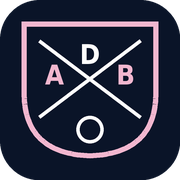
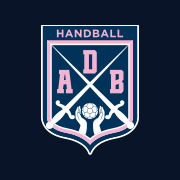
Usar el escudo oficial en SVG en todo el sitio
iconos/escudo.svg reemplaza el escudo dibujado a mano en la portada,
la barra de navegación y el marcador de web.html y la portada del
plan. Los íconos de la app (192, 512 y 180 px) se regeneran desde el
SVG con el mismo fondo redondeado, y se suma el SVG como favicon.
El service worker lo guarda para offline y sube a adb-v10.

diff --git a/web.html b/web.html
@@ -16,6 +16,7 @@
 <meta name="robots" content="noindex, nofollow">
 <meta name="theme-color" content="#0A1428">
 <link rel="manifest" href="manifest.webmanifest">
+<link rel="icon" href="iconos/escudo.svg" type="image/svg+xml">
 <link rel="icon" href="iconos/icono-192.png" sizes="192x192">
 <link rel="apple-touch-icon" href="iconos/icono-180.png">
 <meta name="apple-mobile-web-app-capable" content="yes">
@@ -67,7 +68,7 @@ section{padding:76px 0}
 header{position:sticky;top:0;z-index:60;background:rgba(10,20,40,.92);backdrop-filter:blur(10px);border-bottom:1px solid var(--linea)}
 .nav{display:flex;align-items:center;gap:22px;height:70px}
 .marca{display:flex;align-items:center;gap:11px;text-decoration:none;flex:0 0 auto}
-.marca svg{width:36px;height:auto}
+.marca img{width:36px;height:auto}
 .marca b{font-family:var(--display);font-size:16px;line-height:.95;letter-spacing:.02em;display:block;color:#fff}
 .marca-txt>span{font-size:10.5px;letter-spacing:.22em;color:var(--rosa);text-transform:uppercase;display:block}
 .menu{display:flex;gap:20px;margin-left:auto;align-items:center}
@@ -319,15 +320,7 @@ footer a:hover{color:var(--rosa)}
 <header>
   <div class="wrap nav">
     <a class="marca" href="#top">
-      <svg viewBox="0 0 100 120" aria-hidden="true">
-        <path d="M4 4h92v66c0 26-24 40-46 46C28 110 4 96 4 70Z" fill="#0A1428" stroke="#F2B7CF" stroke-width="5"/>
-        <path d="M18 22h64v50c0 18-16 28-32 33-16-5-32-15-32-33Z" fill="none" stroke="#fff" stroke-width="3"/>
-        <path d="M18 22 82 88M82 22 18 88" stroke="#fff" stroke-width="3"/>
-        <text x="34" y="60" font-family="Anton,Impact,sans-serif" font-size="26" fill="#F2B7CF" text-anchor="middle">A</text>
-        <text x="66" y="60" font-family="Anton,Impact,sans-serif" font-size="26" fill="#F2B7CF" text-anchor="middle">B</text>
-        <text x="50" y="46" font-family="Anton,Impact,sans-serif" font-size="26" fill="#fff" text-anchor="middle">D</text>
-        <circle cx="50" cy="84" r="10" fill="none" stroke="#fff" stroke-width="3"/>
-      </svg>
+      <img src="iconos/escudo.svg" alt="" width="300" height="400">
       <span class="marca-txt">
         <b>ATENEO<br>DON BOSCO</b>
         <span>Handball · Bernal</span>
@@ -366,11 +359,7 @@ footer a:hover{color:var(--rosa)}
       </div>
       <div class="tablero-body">
         <div class="equipo">
-          <svg class="escudo-chico" viewBox="0 0 100 120" aria-hidden="true">
-            <path d="M4 4h92v66c0 26-24 40-46 46C28 110 4 96 4 70Z" fill="#0A1428" stroke="#F2B7CF" stroke-width="5"/>
-            <path d="M18 22 82 88M82 22 18 88" stroke="#fff" stroke-width="3"/>
-            <circle cx="50" cy="84" r="10" fill="none" stroke="#fff" stroke-width="3"/>
-          </svg>
+          <img class="escudo-chico" src="iconos/escudo.svg" alt="" width="300" height="400">
           <span class="nom">Ateneo Don Bosco</span>
           <span class="rol" id="tab-plantel">—</span>
         </div>

diff --git a/index.html b/index.html
@@ -16,6 +16,7 @@
 <link rel="canonical" href="https://adbhandball.com/">
 <meta name="theme-color" content="#0A1428">
 <link rel="manifest" href="manifest.webmanifest">
+<link rel="icon" href="iconos/escudo.svg" type="image/svg+xml">
 <link rel="icon" href="iconos/icono-192.png" sizes="192x192">
 <link rel="apple-touch-icon" href="iconos/icono-180.png">
 <meta name="apple-mobile-web-app-title" content="ADB Handball">
@@ -48,7 +49,7 @@ img{max-width:100%;display:block}
   radial-gradient(820px 400px at 50% -12%,rgba(228,86,143,.30),transparent 64%),
   radial-gradient(680px 420px at 12% 108%,rgba(30,58,110,.9),transparent 62%)}
 .portada>*{position:relative}
-.escudo{width:clamp(96px,17vw,130px);margin:0 auto 26px}
+.escudo{width:clamp(96px,17vw,130px);height:auto;margin:0 auto 26px}
 .lema{font-family:var(--display);font-size:12px;letter-spacing:.42em;color:var(--rosa);margin:0 0 16px}
 .portada p.intro{max-width:56ch;margin:20px auto 0;color:rgba(255,255,255,.78)}
 .cuenta{margin:40px auto 0;max-width:640px;border:1px solid var(--linea);border-radius:18px;background:linear-gradient(180deg,rgba(21,42,84,.9),rgba(10,20,40,.9));padding:26px 22px}
@@ -123,15 +124,7 @@ footer h4{font-family:var(--display);font-size:13px;font-weight:400;letter-spaci
 
 <header class="portada">
   <div class="wrap">
-    <svg class="escudo" viewBox="0 0 100 120" role="img" aria-label="Escudo del Ateneo Don Bosco Handball">
-      <path d="M4 4h92v66c0 26-24 40-46 46C28 110 4 96 4 70Z" fill="#0A1428" stroke="#F2B7CF" stroke-width="5"/>
-      <path d="M18 22h64v50c0 18-16 28-32 33-16-5-32-15-32-33Z" fill="none" stroke="#fff" stroke-width="2.5"/>
-      <path d="M18 22 82 88M82 22 18 88" stroke="#fff" stroke-width="3"/>
-      <text x="33" y="60" font-family="Anton,Impact,sans-serif" font-size="25" fill="#F2B7CF" text-anchor="middle">A</text>
-      <text x="50" y="45" font-family="Anton,Impact,sans-serif" font-size="25" fill="#fff" text-anchor="middle">D</text>
-      <text x="67" y="60" font-family="Anton,Impact,sans-serif" font-size="25" fill="#F2B7CF" text-anchor="middle">B</text>
-      <circle cx="50" cy="84" r="10" fill="none" stroke="#fff" stroke-width="3"/>
-    </svg>
+    <img class="escudo" src="iconos/escudo.svg" alt="Escudo del Ateneo Don Bosco Handball" width="300" height="400">
 
     <p class="lema">SENSUS PERTINENDI</p>
     <h1 class="h1">La casa del Bosco,<br>ahora también acá.</h1>

diff --git a/plan-sponsoreo.html b/plan-sponsoreo.html
@@ -6,6 +6,7 @@
 <meta name="robots" content="noindex, nofollow">
 <title>Plan de sponsoreo — Ateneo Don Bosco Handball</title>
 <meta name="theme-color" content="#0A1428">
+<link rel="icon" href="iconos/escudo.svg" type="image/svg+xml">
 <link rel="icon" href="iconos/icono-192.png" sizes="192x192">
 <link rel="preconnect" href="https://fonts.googleapis.com">
 <link rel="preconnect" href="https://fonts.gstatic.com" crossorigin>
@@ -41,7 +42,7 @@ section{padding:66px 0;border-top:1px solid rgba(255,255,255,.09)}
   radial-gradient(860px 420px at 72% -14%,rgba(228,86,143,.3),transparent 62%),
   radial-gradient(660px 400px at 6% 108%,rgba(30,58,110,.9),transparent 60%)}
 .portada>*{position:relative}
-.escudo{width:78px;margin-bottom:26px}
+.escudo{width:78px;height:auto;display:block;margin-bottom:26px}
 .lema{font-family:var(--display);font-size:11.5px;letter-spacing:.4em;color:var(--rosa);margin:0 0 14px}
 .cifras{display:grid;grid-template-columns:repeat(4,1fr);gap:1px;background:var(--linea);border:1px solid var(--linea);border-radius:16px;overflow:hidden;margin-top:38px}
 @media(max-width:700px){.cifras{grid-template-columns:1fr 1fr}}
@@ -161,11 +162,7 @@ footer a{color:var(--rosa);text-decoration:none}
 
 <header class="portada">
   <div class="wrap">
-    <svg class="escudo" viewBox="0 0 100 120" role="img" aria-label="Escudo del club">
-      <path d="M4 4h92v66c0 26-24 40-46 46C28 110 4 96 4 70Z" fill="#0A1428" stroke="#F2B7CF" stroke-width="5"/>
-      <path d="M18 22 82 88M82 22 18 88" stroke="#fff" stroke-width="3"/>
-      <circle cx="50" cy="84" r="10" fill="none" stroke="#fff" stroke-width="3"/>
-    </svg>
+    <img class="escudo" src="iconos/escudo.svg" alt="Escudo del club" width="300" height="400">
     <p class="lema">SENSUS PERTINENDI</p>
     <h1 class="h1">Plan de sponsoreo<br>Ateneo Don Bosco Handball</h1>
     <p class="bajada" style="margin-top:18px">Un solo esquema para todo el club. Tu marca deja de estar en una camiseta de una categoría y pasa a estar en todas: en la cancha, en la web, en el teléfono de cada familia y en el comercio de la vuelta.</p>

diff --git a/sw.js b/sw.js
@@ -1,13 +1,14 @@
 /* Service worker del Ateneo Don Bosco Handball.
    Guarda la web en el teléfono para que abra al instante y funcione sin señal
    (los gimnasios suelen no tener datos). Subí la versión cuando cambies el sitio. */
-const VERSION = "adb-v9";
+const VERSION = "adb-v10";
 const BASE = [
   "./",
   "./index.html",
   "./web.html",
   "./datos.js",
   "./manifest.webmanifest",
+  "./iconos/escudo.svg",
   "./iconos/icono-192.png",
   "./iconos/icono-512.png"
 ];

diff --git a/CLAUDE.md b/CLAUDE.md
@@ -11,7 +11,8 @@ index.html            ← página de lanzamiento (la que ve el público)
 web.html              ← la web completa, todavía sin linkear ni indexar
 manifest.webmanifest  ← datos de la app instalable
 sw.js                 ← service worker (caché offline)
-iconos/               ← íconos de la app (192, 512 y 180 px)
+iconos/               ← escudo.svg (el escudo oficial, se usa en las tres páginas) e
+                        íconos de la app (192, 512 y 180 px, generados desde el SVG)
 fotos/                ← imágenes de la galería
 CLAUDE.md             ← este archivo
 worker.js             ← backend mínimo: guarda los mails de los formularios en la base D1
